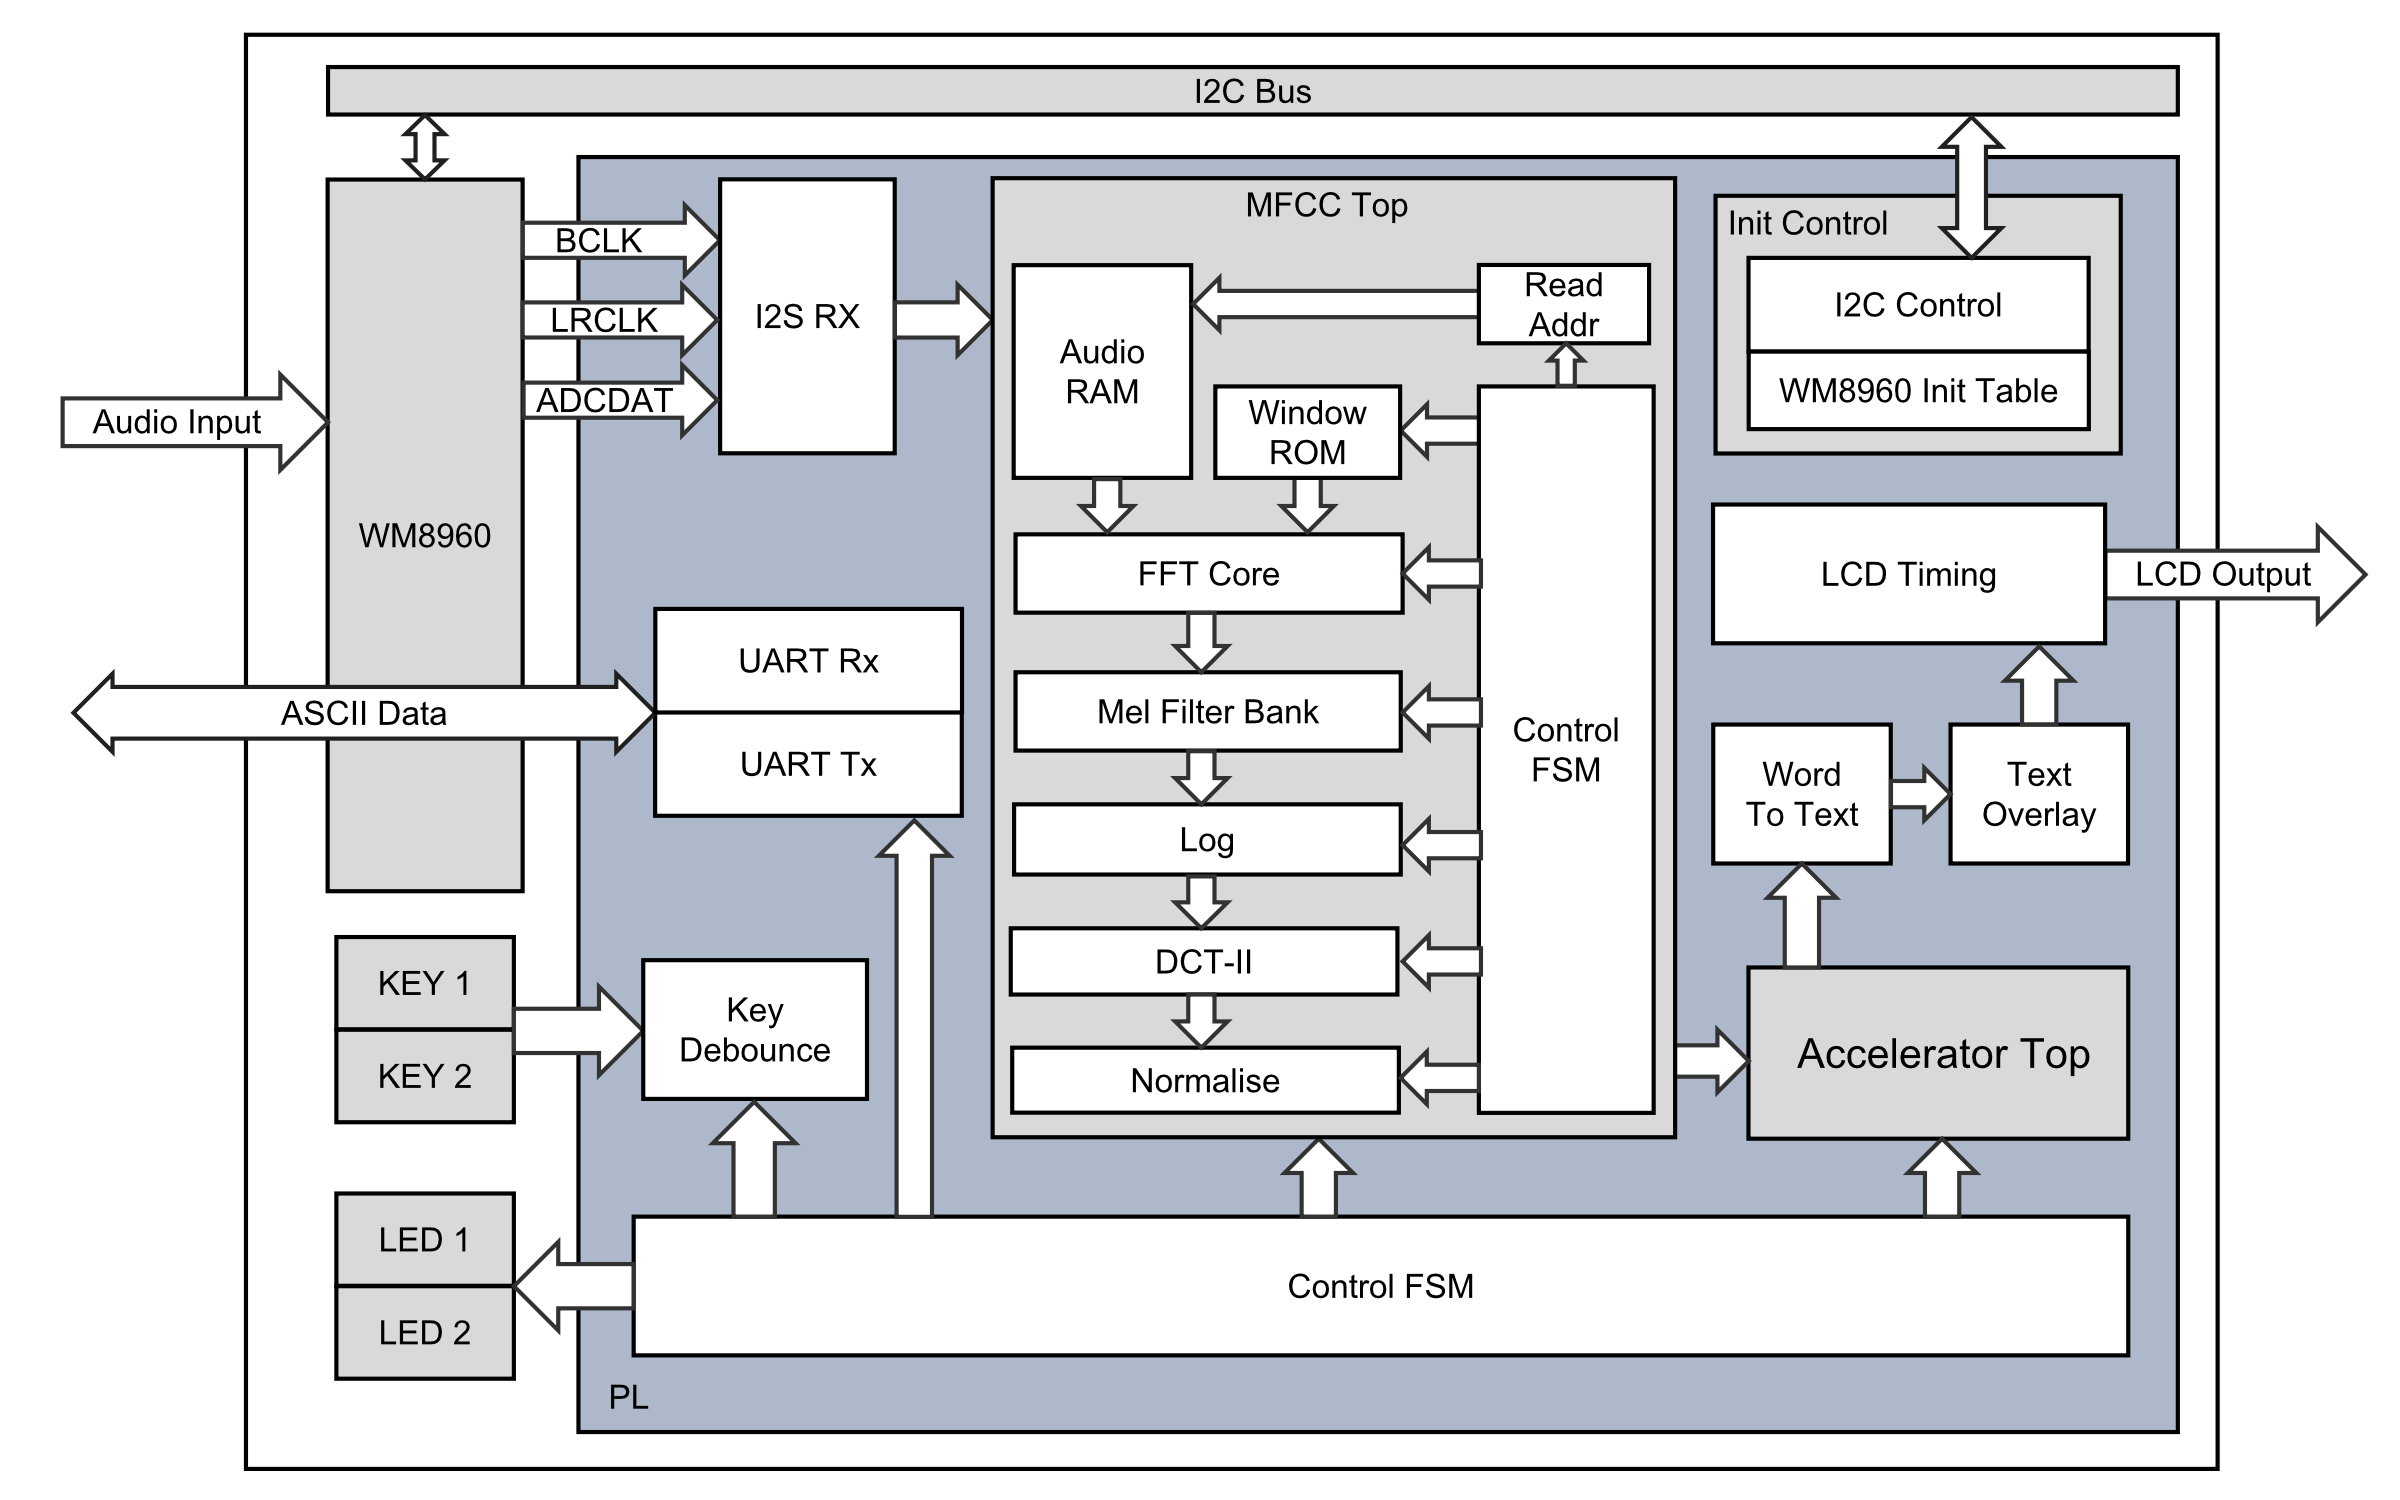
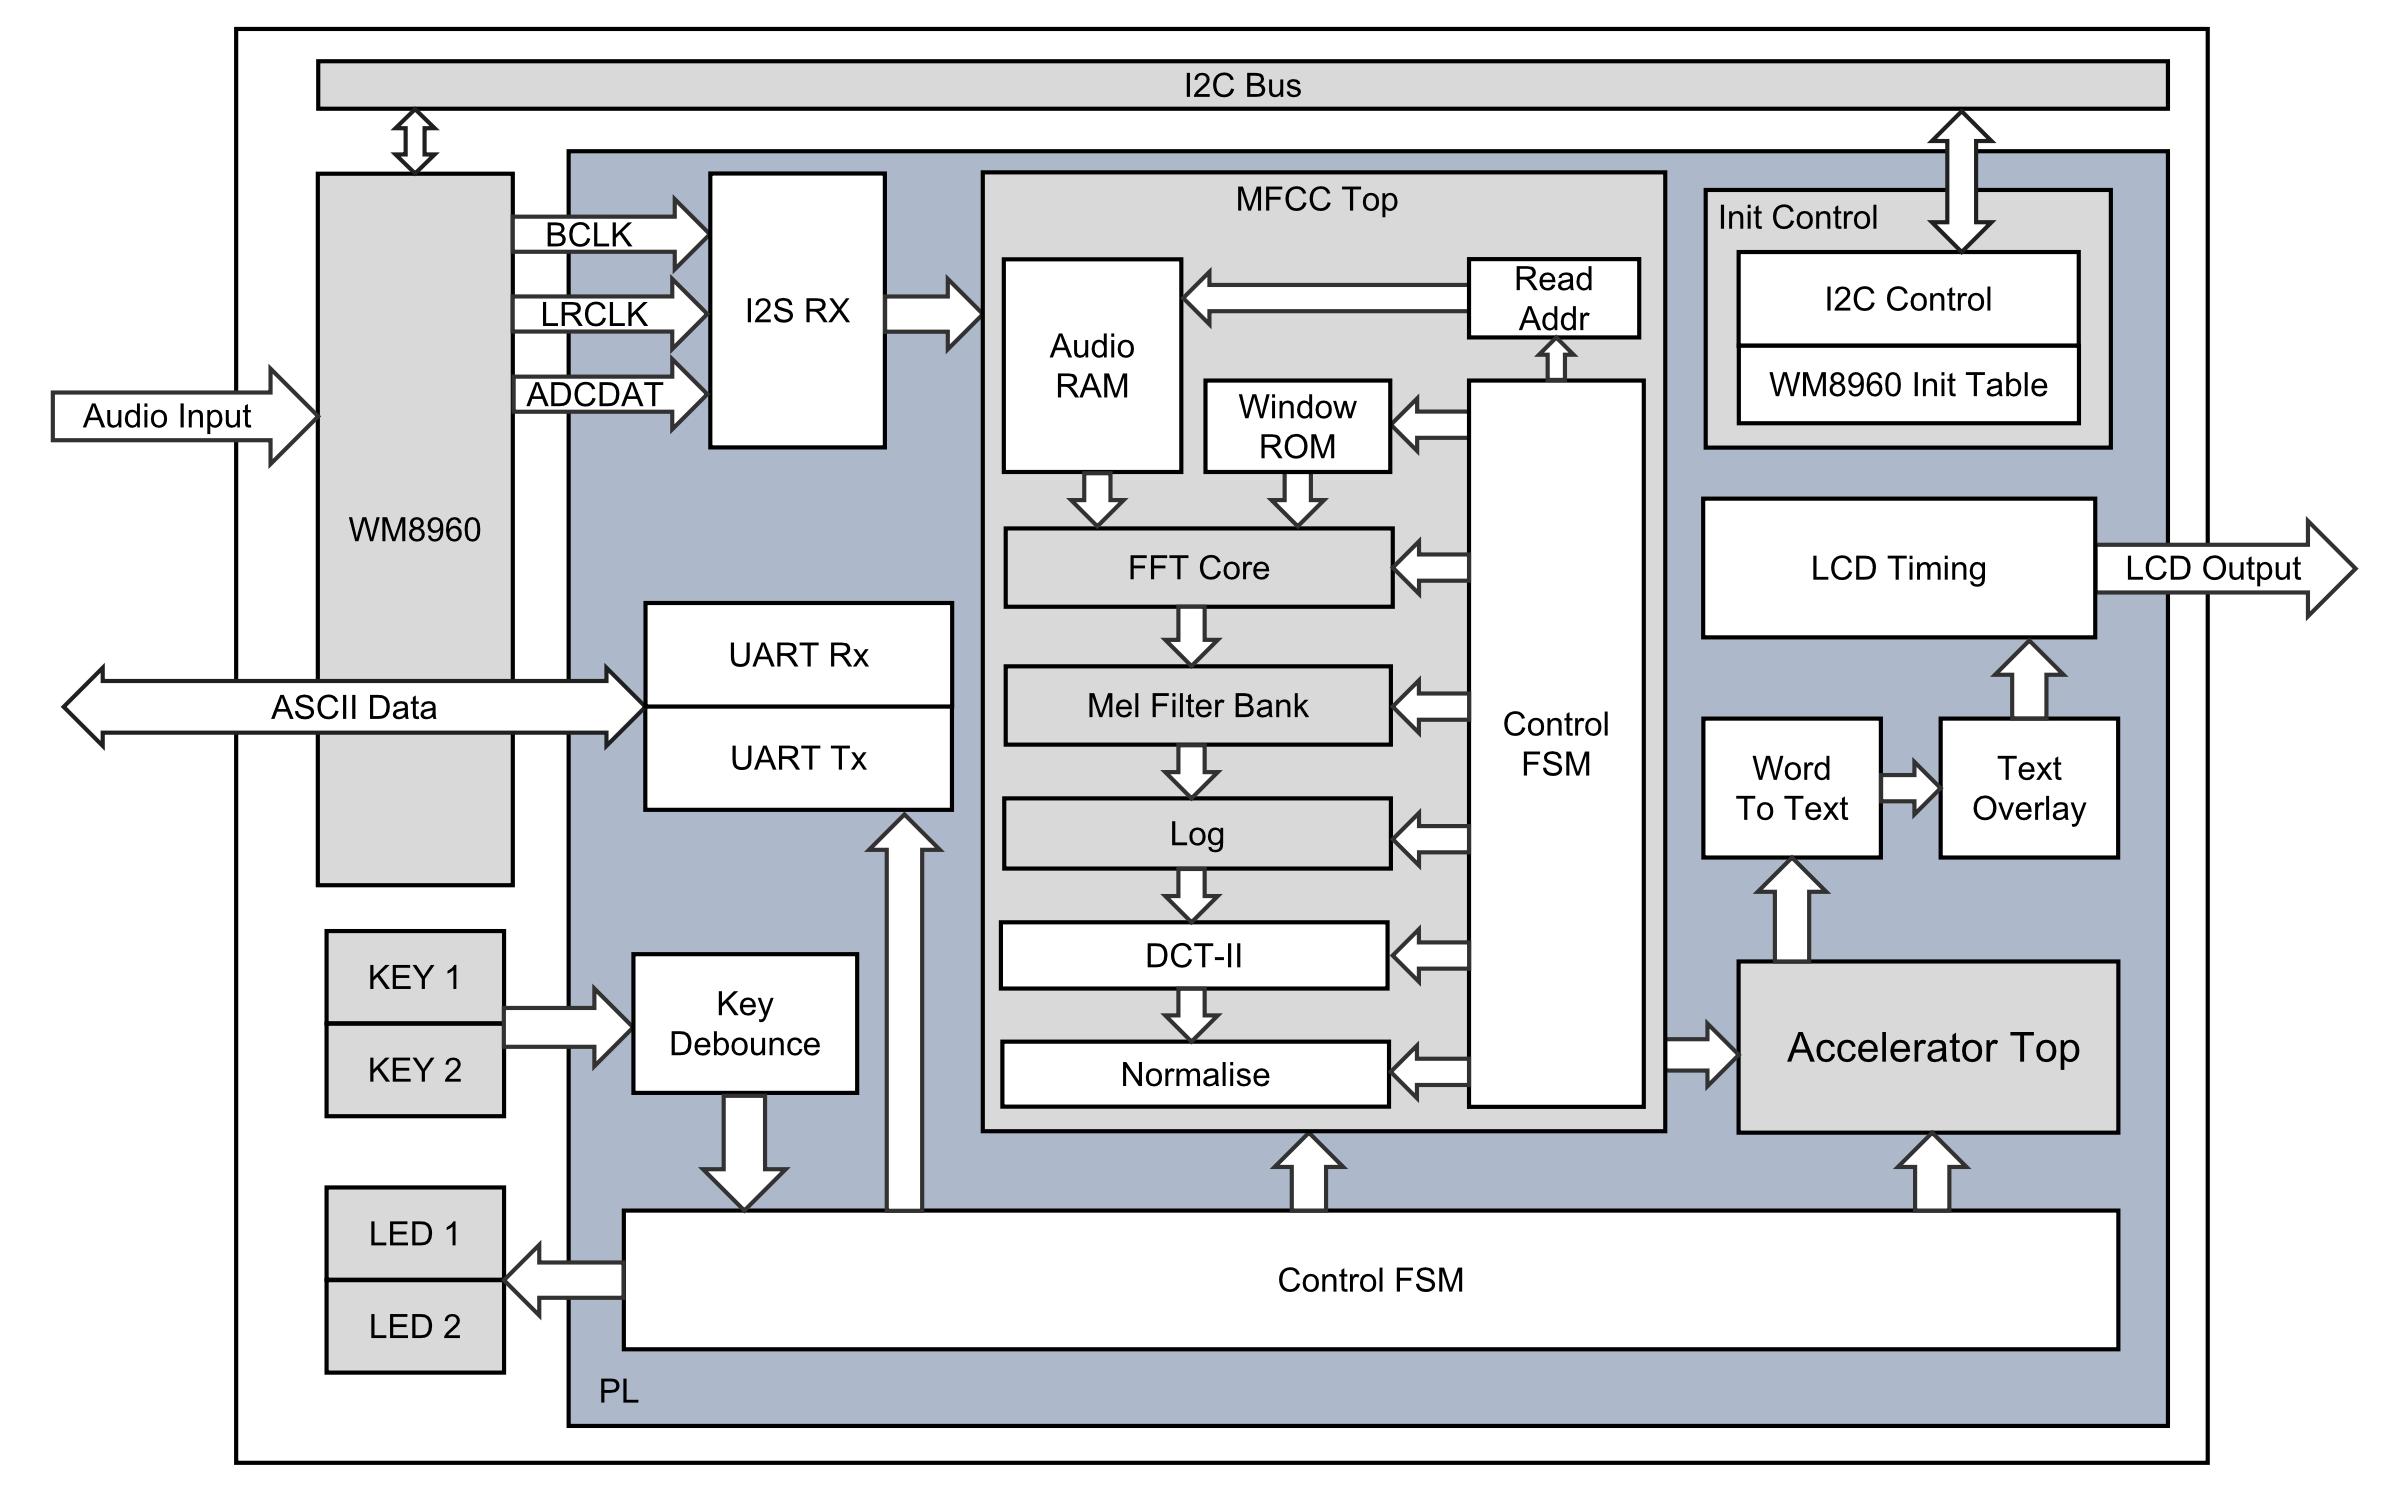
fix: README.md

Changed region(s): [[0.0, 0.0, 1.0, 0.9813]]

diff --git a/README.md b/README.md
@@ -148,7 +148,7 @@ report_utilization -hierarchical                   # 只要物理数量就用这
 
 ![](docs/assets/system-architecture.png)
 
-加速器架构设计
+加速器（accelerator_top）架构设计
 
 ![](docs/assets/accelerator-architecture.png)
 
@@ -218,7 +218,7 @@ sudo pacman -S --needed iverilog uv git
 iverilog -V | head -1
 ```
 
-其他发行版请自行参考对应的安装方法。接着克隆到本地并安装 Python 虚拟环境（也可以使用系统自带，推荐使用虚拟环境，避免污染系统）：
+其他发行版请自行参考对应的安装方法。接着克隆到本地并安装 Python 虚拟环境（也可以使用系统自带，推荐使用虚拟环境，避免污染系统环境）：
 
 ```shell
 git clone https://github.com/flyingyuya/FPGA-DS-CNN-KWS.git
@@ -510,7 +510,7 @@ s_ready = (wcnt < NSAMP) && (wcnt < need + SLACK)   // SLACK = RING - WIN = 32
 
 ## 9. 已知限制与后续工作
 
-- 目前识别速度是 1 帧/s（无输入帧缓冲），若要做 200–250 ms 滑窗，需要`加窗重叠 + FMEM 环形列地址`，但同时也会增加 BRAM 存储资源。
+- 目前识别速度是 1 帧/s（无输入帧缓冲），若要做 200–250 ms 滑窗，需要`加窗重叠 + FMEM 环形列地址`，但同时也会增加 BRAM 资源消耗。
 - 连续模式下每次 CNN 运行（0.563 ms）期间不采样本，占一帧的 0.06%，几乎可忽略。
 - 当前在 12 类任务上的量化精度为 93.37%。
 
@@ -525,7 +525,6 @@ s_ready = (wcnt < NSAMP) && (wcnt < need + SLACK)   // SLACK = RING - WIN = 32
 | `docs/quantisation-math.md` | shift-only 量化契约的完整推导（含 ρ、zero-point、舍入） |
 | `docs/memory-layout.md` | 每层特征图/权重的地址映射 |
 | `docs/bringup.md` | 上板指南：引脚表、LED 真值表、flash 陷阱、按键说明 |
-| `docs/paper/` | 对比用的两篇参考文献 |
 
 ---
 
